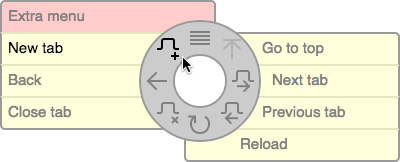
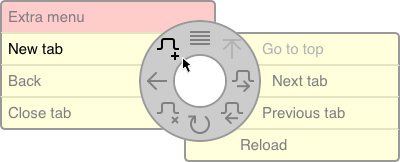
added support for programmatically generating the two screenshots appearing in the README and updated them with a transparent background

diff --git a/screenshots/screenshots.html b/screenshots/screenshots.html
@@ -1,0 +1,149 @@
+<!DOCTYPE html>
+
+<html lang="en">
+<head>
+  <meta charset="utf-8">
+  
+  <!-- This Source Code Form is subject to the terms of the Mozilla Public
+     - License, v. 2.0. If a copy of the MPL was not distributed with this
+     - file, You can obtain one at https://mozilla.org/MPL/2.0/. -->
+  
+  <!-- To generate the "screenshots":
+     - Open this file in Safari; ensure that the Develop menu is enabled and
+       that the "Disable Cross-Origin Restrictions" option is enabled
+     - Open the Web Inspector
+     - Select the node containing the pie menu for which a screenshot needs to
+       be generated, right click and select "Capture Screenshot" -->
+  
+  <title>easyGestures N - Screenshots</title>
+  <link rel="stylesheet" href="../extension/content/easyGesturesN.css">
+  <style>
+    .easyGesturesTips.darkTheme {
+      --easyGesturesN-border-color: hsl(45, 0%, 0%);
+      --easyGesturesN-background-color: hsl(45, 0%, 20%);
+      --easyGesturesN-accent-color: hsl(45, 100%, 60%);
+      --easyGesturesN-enabled-color: hsl(45, 0%, 80%);
+      --easyGesturesN-disabled-color: hsl(45, 0%, 40%);
+      
+      --pie-menu-border-color: var(--easyGesturesN-border-color);
+      --pie-menu-background-color: var(--easyGesturesN-background-color);
+      --tooltip-inner-border-color: var(--easyGesturesN-border-color);
+      --tooltip-background-color: var(--easyGesturesN-background-color);
+      --enabled-tooltip-color: var(--easyGesturesN-enabled-color);
+      --tooltip-extra-action-background-color: var(--easyGesturesN-background-color);
+      --selected-tooltip-color: var(--easyGesturesN-accent-color);
+      --disabled-tooltip-color: var(--easyGesturesN-disabled-color);
+      --enabled-action-color: var(--easyGesturesN-enabled-color);
+      --selected-action-color: var(--easyGesturesN-accent-color);
+      --disabled-action-color: var(--easyGesturesN-disabled-color);
+    }
+    .easyGesturesTips .easyGesturesActionsNode {
+      -webkit-mask-image: url("../extension/content/menu.svg");
+      -webkit-mask-size: calc(-2 * var(--actions-node-offset) * 3);
+    }
+    .easyGesturesTips .easyGesturesActionsNode::after {
+      -webkit-mask-image: url("../extension/content/menu.svg");
+      -webkit-mask-position: calc(2 * var(--actions-node-offset)) 0px;
+      -webkit-mask-size: calc(-2 * var(--actions-node-offset) * 3);
+    }
+    .easyGesturesTips .easyGesturesTooltipsNode .selected span {
+      color: var(--selected-tooltip-color);
+    }
+    .easyGesturesTips .easyGesturesActionsNode div {
+      -webkit-mask-image: url("../extension/content/actions.svg");
+      -webkit-mask-position: calc(var(--icon-position-x) * -1 * var(--icon-size))
+                             calc(var(--icon-position-y) * -1 * var(--icon-size));
+      -webkit-mask-size: calc(var(--icon-size) * 17);
+    }
+    
+    #tipImages > div,
+    .easyGesturesTips {
+      position: absolute;
+    }
+    #tipImages > div::after {
+      display: block;
+      position: absolute;
+      z-index: 2147483648; /* z-index of pie menu + 1 */
+      background-image: url("mousePointer.svg");
+      content: "";
+    }
+    #tipImages .easyGesturesTips > div {
+      position: absolute;
+      left: 0px;
+      top: 0px;
+    }
+    #tipImages .easyGesturesActionsNode,
+    .easyGesturesTips .easyGesturesTooltipsNode {
+      visibility: visible;
+    }
+    #tipImages div.easyGesturesActionsNode {
+      left: calc(-1 * var(--tooltips-x-offset) + var(--actions-node-offset));
+      top: calc(-1 * var(--tooltips-y-offset) + var(--actions-node-offset));
+    }
+    
+    #mainMenuWithTooltipsAndPointedAction::after,
+    #mainMenuWithTooltipsInDarkModeAndPointedAction::after {
+      left: calc(200px - 19px); /* -1 * var(--tooltips-x-offset) - 19px */
+      top: calc(81px - 24px); /* -1 * var(--tooltips-y-offset) - 24px */
+      width: 15px;
+      height: 22px;
+    }
+    #mainMenuWithTooltipsInDarkModeAndPointedAction {
+      margin-top: calc(162px + 20px);
+    }
+  </style>
+</head>
+
+<body>
+  <div id="tipImages">
+    <div id="mainMenuWithTooltipsAndPointedAction">
+      <div class="easyGesturesTips">
+        <div class="easyGesturesActionsNode">
+          <div class="sector0 nextTab"></div>
+          <div class="sector1 goToTop disabled"></div>
+          <div class="sector2 showExtraMenu"></div>
+          <div class="sector3 newTab selected"></div>
+          <div class="sector4 back"></div>
+          <div class="sector5 closeTab"></div>
+          <div class="sector6 reload"></div>
+          <div class="sector7 previousTab"></div>
+        </div>
+        <div class="easyGesturesTooltipsNode">
+          <div class="tooltip0"><span>Next tab</span></div>
+          <div class="tooltip1 disabled"><span>Go to top</span></div>
+          <div class="tooltip2 extra"><span>Extra menu</span></div>
+          <div class="tooltip3 selected"><span>New tab</span></div>
+          <div class="tooltip4"><span>Back</span></div>
+          <div class="tooltip5"><span>Close tab</span></div>
+          <div class="tooltip6"><span>Reload</span></div>
+          <div class="tooltip7"><span>Previous tab</span></div>
+        </div>
+      </div>
+    </div>
+    <div id="mainMenuWithTooltipsInDarkModeAndPointedAction">
+      <div class="easyGesturesTips darkTheme">
+        <div class="easyGesturesActionsNode">
+          <div class="sector0 nextTab"></div>
+          <div class="sector1 goToTop disabled"></div>
+          <div class="sector2 showExtraMenu"></div>
+          <div class="sector3 newTab selected"></div>
+          <div class="sector4 back"></div>
+          <div class="sector5 closeTab"></div>
+          <div class="sector6 reload"></div>
+          <div class="sector7 previousTab"></div>
+        </div>
+        <div class="easyGesturesTooltipsNode">
+          <div class="tooltip0"><span>Next tab</span></div>
+          <div class="tooltip1 disabled"><span>Go to top</span></div>
+          <div class="tooltip2 extra"><span>Extra menu</span></div>
+          <div class="tooltip3 selected"><span>New tab</span></div>
+          <div class="tooltip4"><span>Back</span></div>
+          <div class="tooltip5"><span>Close tab</span></div>
+          <div class="tooltip6"><span>Reload</span></div>
+          <div class="tooltip7"><span>Previous tab</span></div>
+        </div>
+      </div>
+    </div>
+  </div>
+</body>
+</html>
